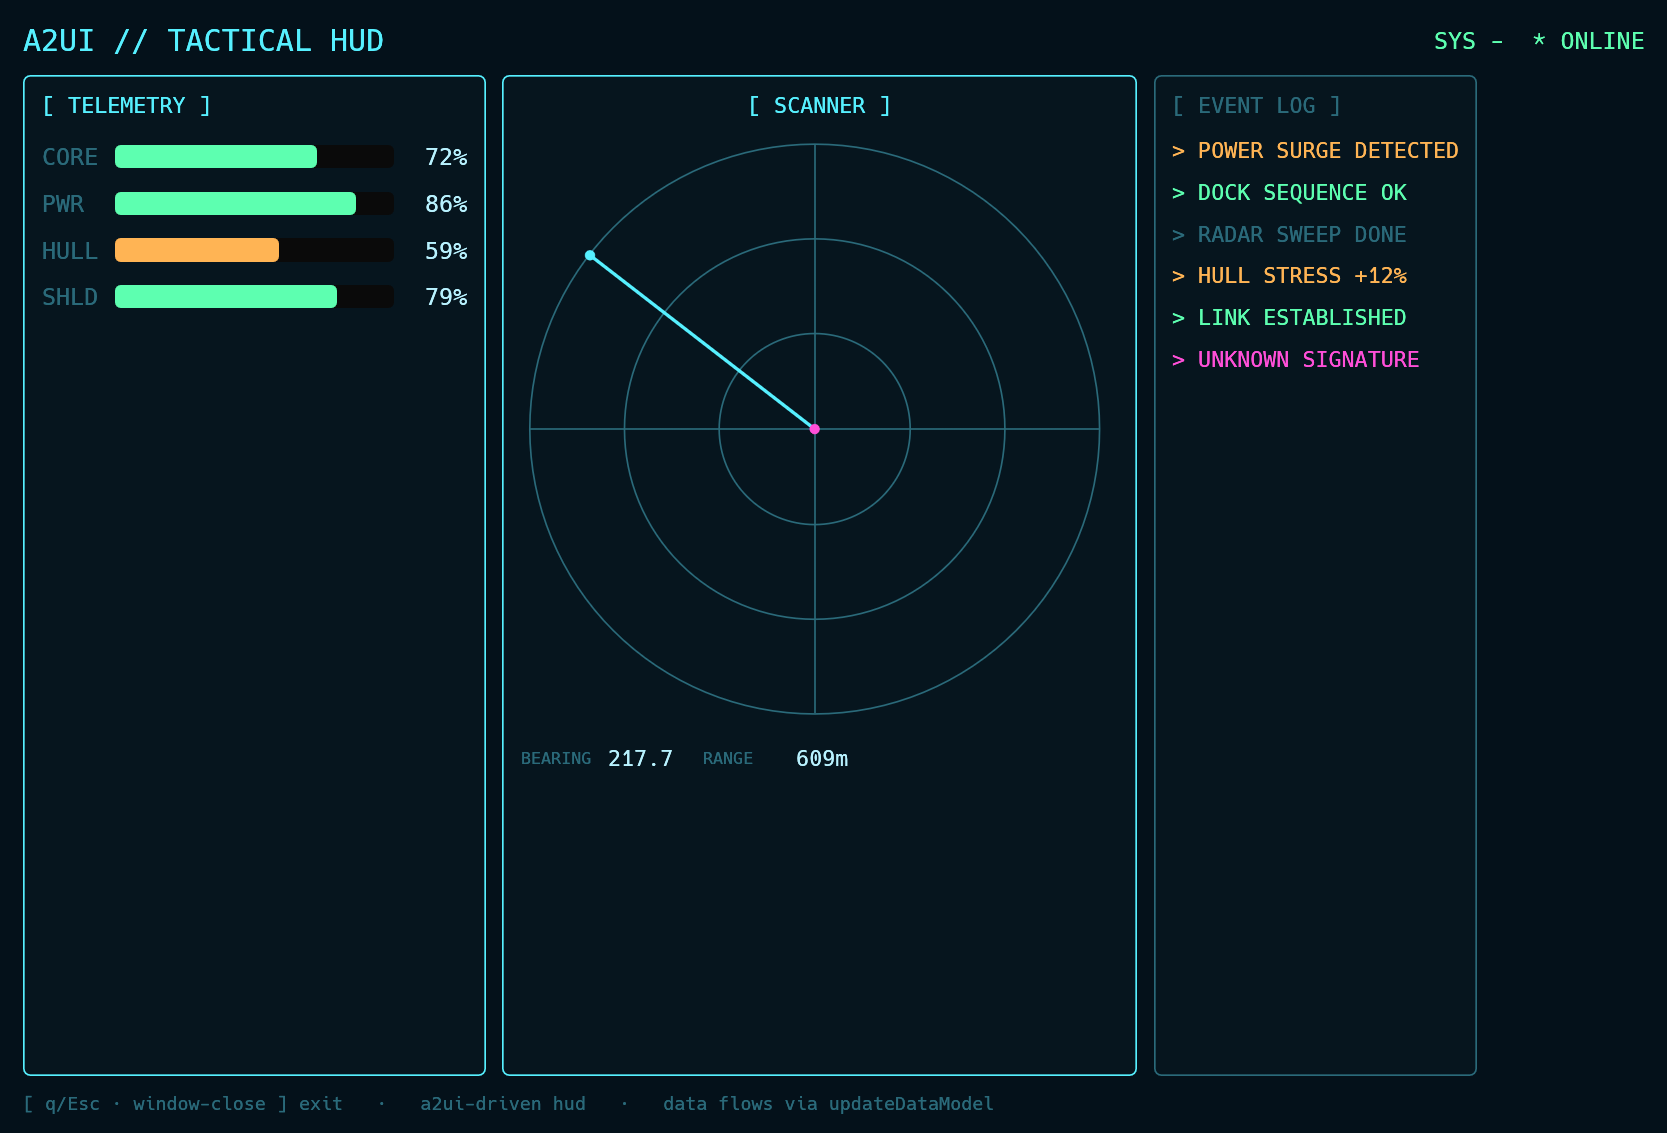
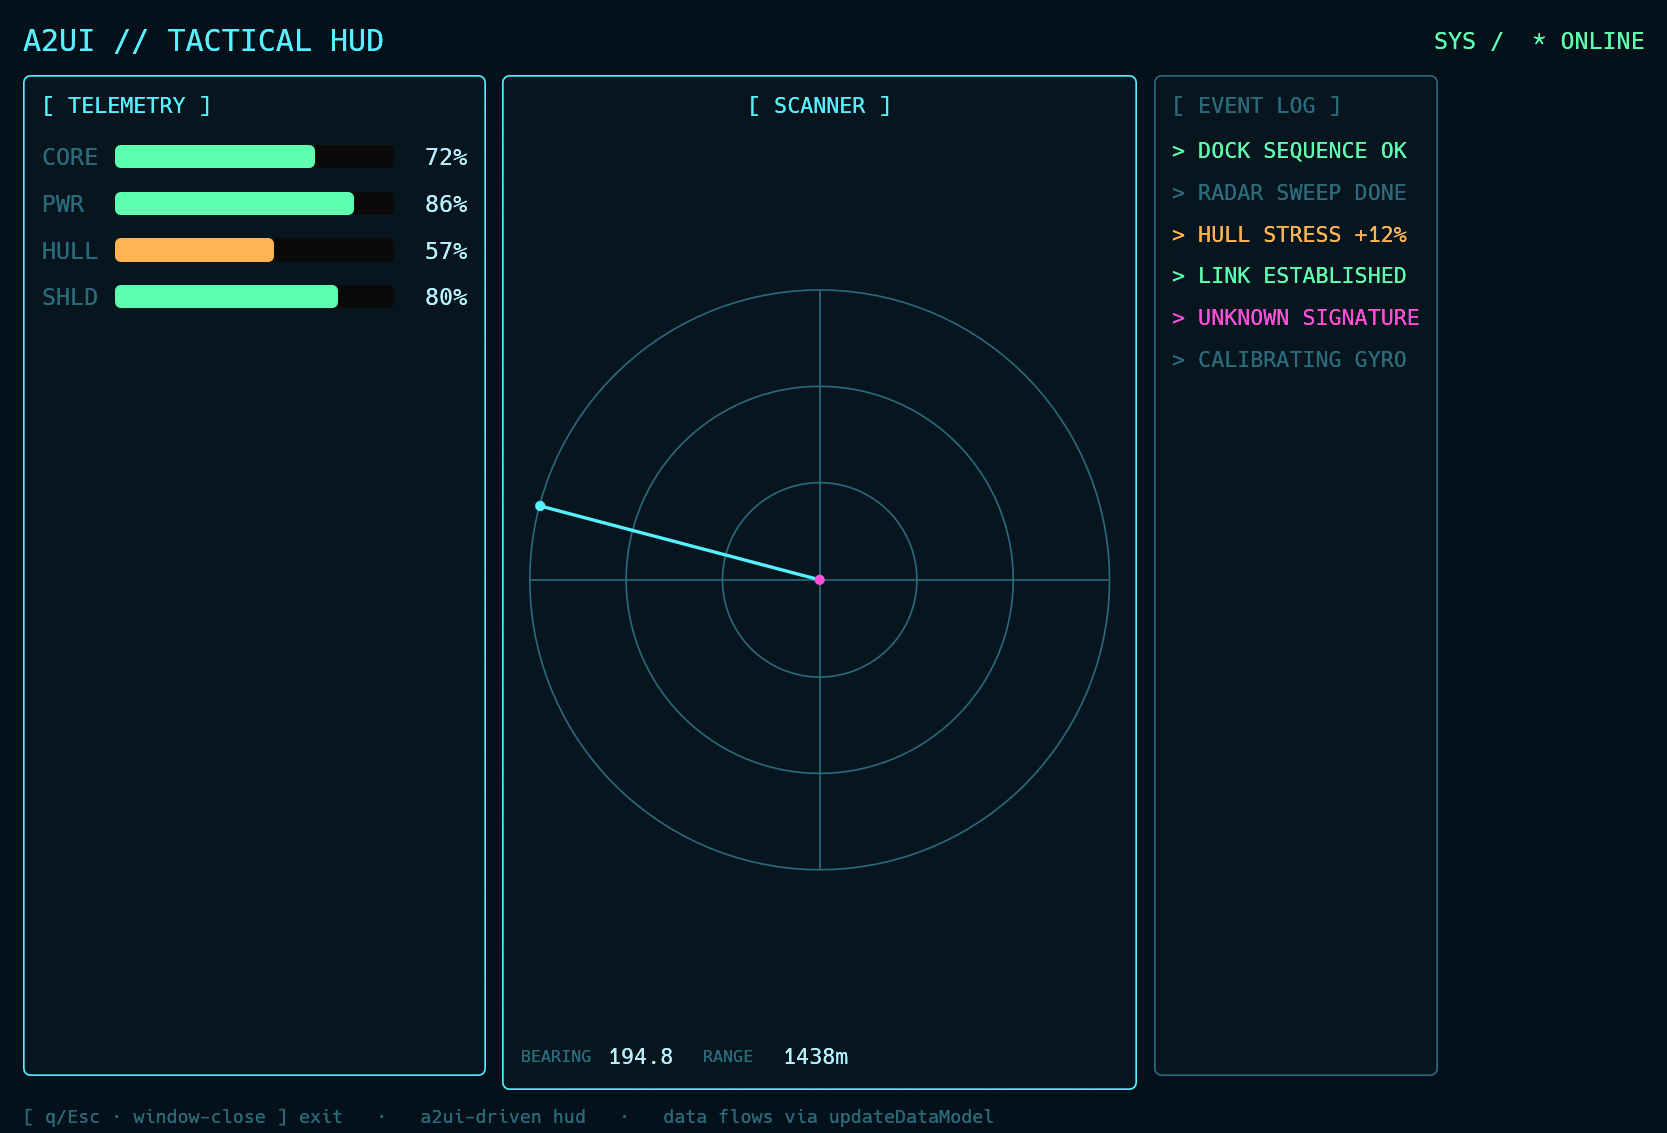
fix(egui): center + fill the sci-fi HUD radar panel; refresh screenshot
The scanner panel's radar was a top-anchored square that left the panel's
lower half empty when the panel was taller than wide (and the stale README
screenshot even showed it as an oval). Now the radar *area* fills the space
between the title and the bearing readout (mirroring the iced/dioxus
backends), and `paint_radar` inscribes + centers the circle
(radius = min(w,h)/2). Regenerated screenshot/sci-fi-hud-egui.png.

diff --git a/crates/egui/examples/17_scifi_hud.rs b/crates/egui/examples/17_scifi_hud.rs
@@ -496,10 +496,19 @@ fn render_scanner(ui: &mut egui::Ui, snap: &Snapshot) {
     frame.show(ui, |ui| {
         ui.set_min_height(ui.available_height());
         ui.vertical_centered(|c| c.label(mono("[ SCANNER ]", 13.0, CYAN)));
+        ui.add_space(2.0);
 
-        // Radar grid: take the available square and draw rings + sweep on it.
-        let avail = (ui.available_width().min(ui.available_height()) - 6.0).max(40.0);
-        let (rect, _) = ui.allocate_exact_size(Vec2::splat(avail), Sense::hover());
+        // Radar grid: fill the space between the title and the bearing readout
+        // (mirrors the iced/dioxus backends, where the radar *area* fills the
+        // panel and the circle is inscribed + centered by `paint_radar`). This
+        // avoids an unbalanced top-anchored square that leaves the panel's lower
+        // half empty when the panel is taller than it is wide.
+        let bearing_h = 22.0;
+        let radar_size = Vec2::new(
+            ui.available_width(),
+            (ui.available_height() - bearing_h).max(40.0),
+        );
+        let (rect, _) = ui.allocate_exact_size(radar_size, Sense::hover());
         let painter = ui.painter_at(rect);
         paint_radar(&painter, rect, snap.angle as f32);
 
